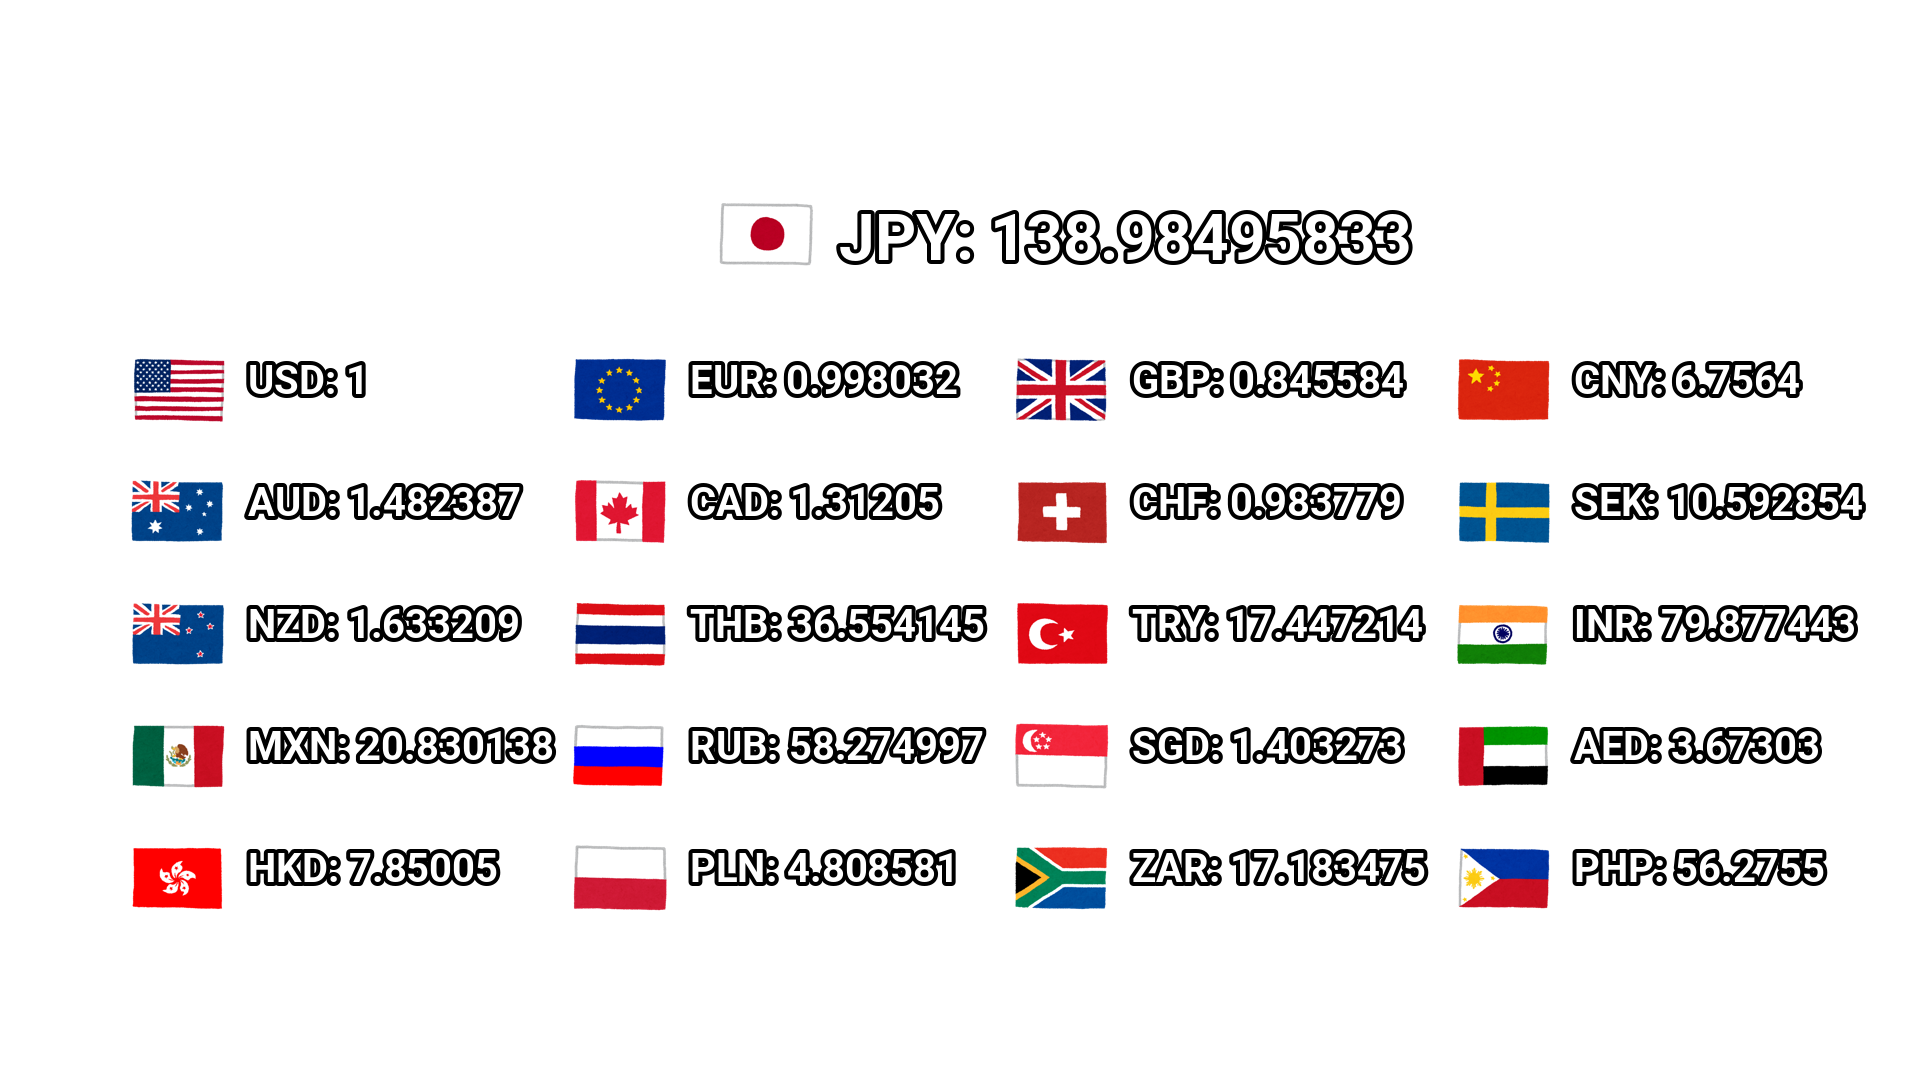
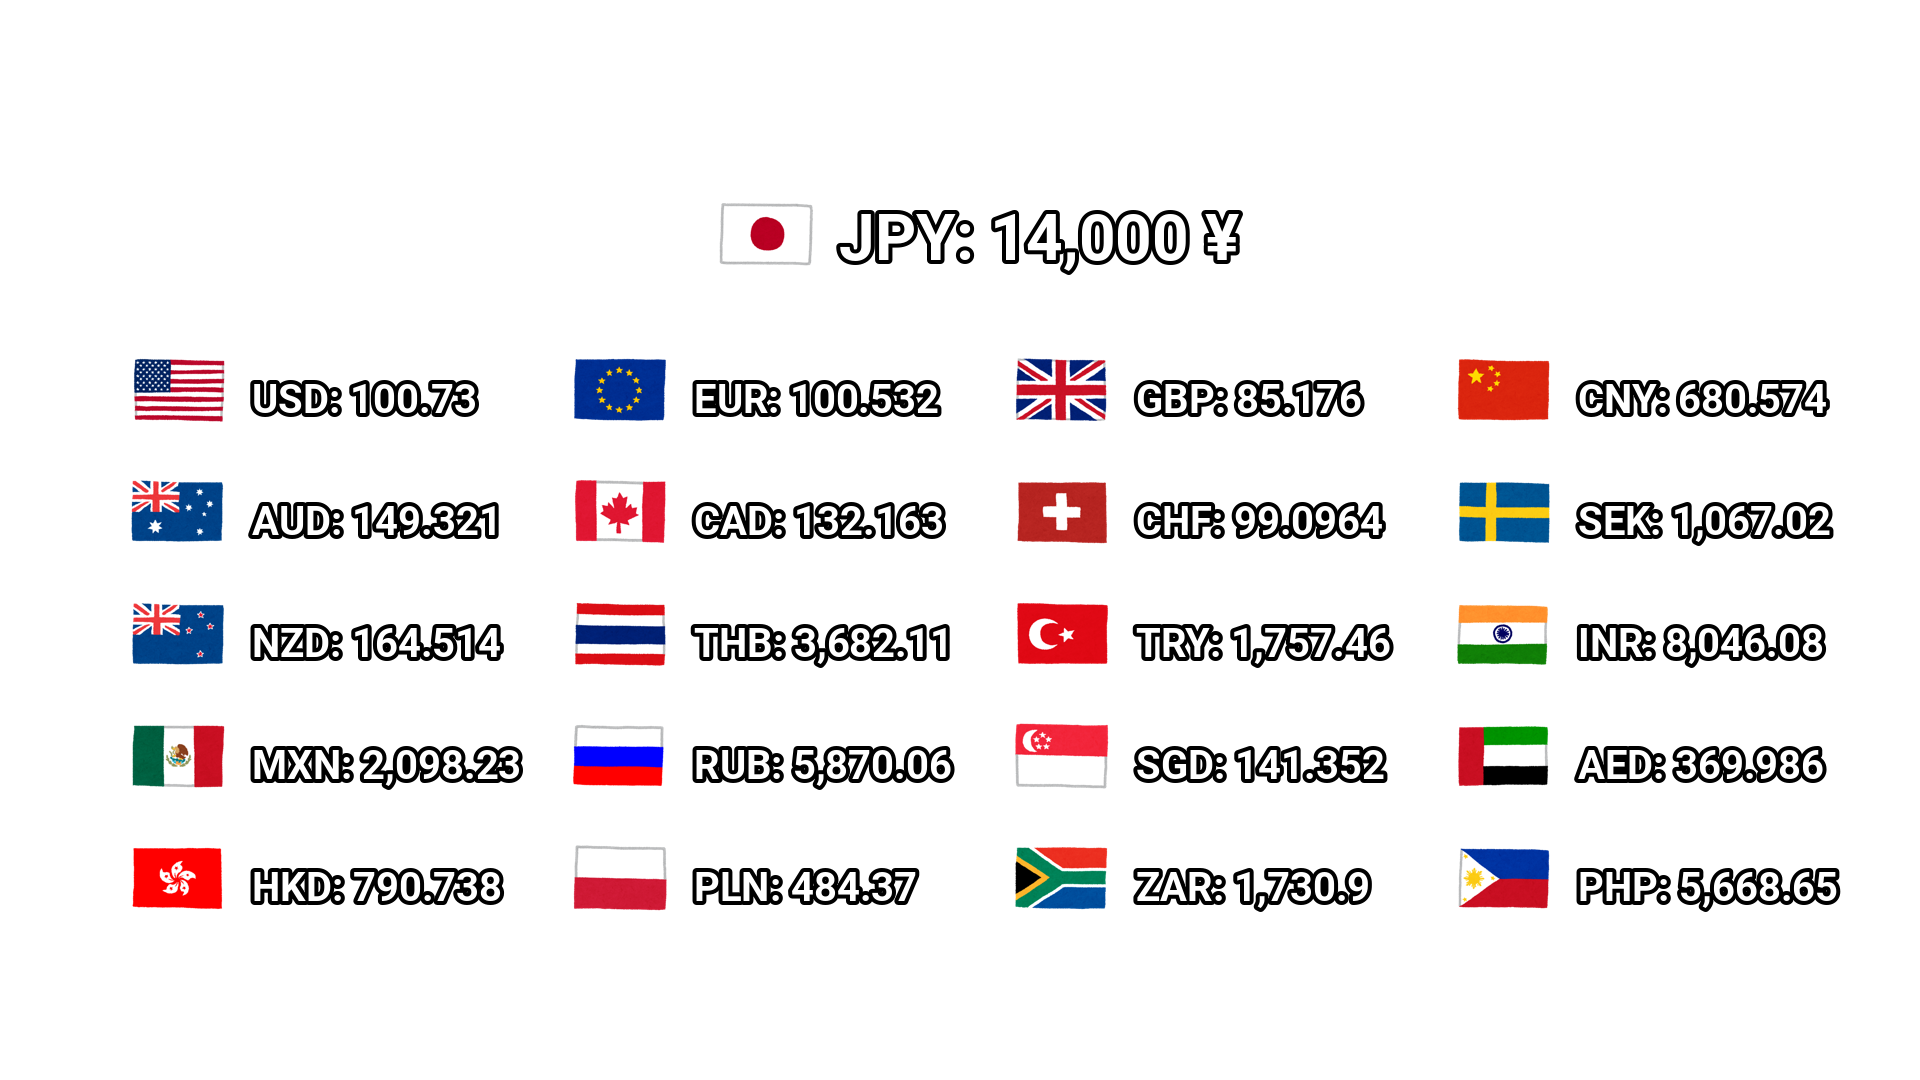
FEAT: Build exchanged fees image

diff --git a/src/movie_tools/exchange_rate/main.py b/src/movie_tools/exchange_rate/main.py
@@ -2,7 +2,7 @@ import os
 
 import dotenv
 
-from movie_tools.exchange_rate import imaging, rate
+from movie_tools.exchange_rate import imaging, oxr_client
 
 
 dotenv.load_dotenv("./.env")
@@ -36,32 +36,38 @@ def get_flag(name: str) -> str:
     return f"src/movie_tools/exchange_rate/flags/{name}.png"
 
 
-def main():
-
-    rate_client = rate.Client(os.environ.get("OXRATE_APP_ID"))
+def main(fee: int):
+    rate_client = oxr_client.Client(os.environ.get("OXRATE_APP_ID"))
     result = rate_client.get_latest()
 
     image = imaging.Imaging()
 
     width, height = image.img.size
+
+    # Create JPY Header
+    start_x = 715
+    start_y = 200
+    flag_width = 100
+    flag_text_space = 24
+    jpy = result.rates["JPY"]
+    image.paste(get_flag("JPY"), (start_x, start_y), width=flag_width)
+    image.write(f"JPY: {fee:,} ¥", (start_x + flag_width + flag_text_space, start_y), size=64)
+
+    # Create exchanged fees for each countries
     margin_x = 128
     space_x = 104
     space_y = 56
     unit_width = 338
     unit_height = 66
-
-    jpy = result.rates["JPY"]
-    image.paste(get_flag("JPY"), (715, 200), width=100)
-    image.write(f"JPY: {jpy}", (715 + 100 + 24, 200), size=64)
-
     for (i, name) in enumerate(flags):
         x = i % 4 * (unit_width + space_x) + margin_x
-        y = i // 4 * (unit_height + space_y) + 356
-        image.paste(get_flag(name), (x, y), width=100)
-        value = result.rates.get(name, 0)
-        image.write(f"{name}: {value}", (x + 120, y), size=40)
+        y = i // 4 * (unit_height + space_y) + start_y + flag_width + space_y
+        image.paste(get_flag(name), (x, y), width=flag_width)
+        rate = result.rates[name]
+        image.write(f"{name}: {fee * rate / jpy:,.6g}", (x + flag_width + flag_text_space, y + 19), size=40)
 
     image.save("./test.png")
 
 
-main()
+if __name__ == "__main__":
+    main(14000)

diff --git a/src/movie_tools/exchange_rate/imaging.py b/src/movie_tools/exchange_rate/imaging.py
@@ -1,4 +1,3 @@
-from os import PathLike
 from pathlib import Path
 
 from PIL import Image, ImageFont, ImageDraw
@@ -36,7 +35,7 @@ class Imaging:
             stroke_width=4,
         )
 
-    def paste(self, image_path: PathLike, xy: tuple[int, int], width: int = None):
+    def paste(self, image_path: str, xy: tuple[int, int], width: int = None):
         pasted = Image.open(image_path)
         pasted = pasted.resize((width or pasted.width, pasted.height * width // pasted.width))
         self.img.paste(pasted, xy)
